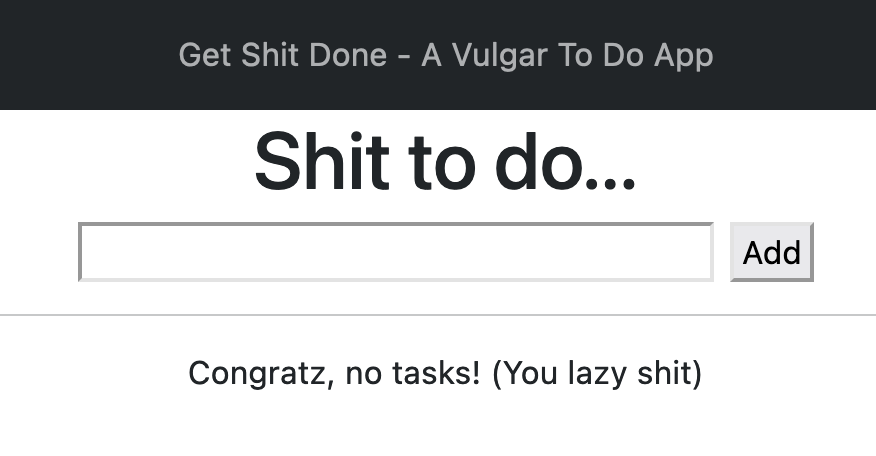
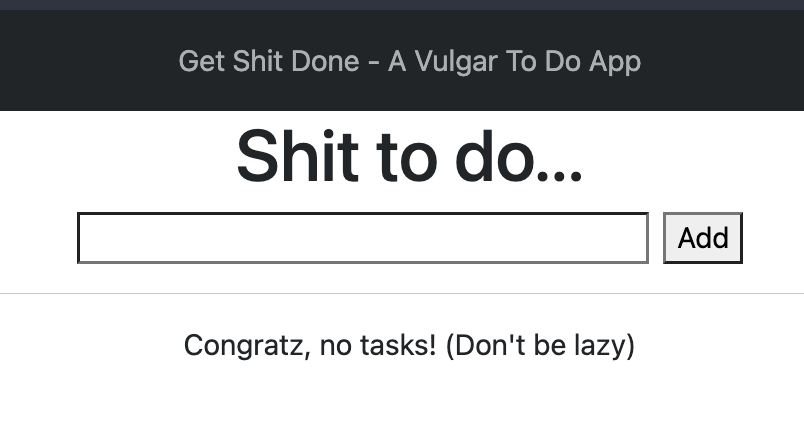
made slightly less vulgar

diff --git a/Django_Projects/todoproject/todoapp/templates/todoapp/index.html b/Django_Projects/todoproject/todoapp/templates/todoapp/index.html
@@ -34,7 +34,7 @@
                 </div>
             {% endfor %}
         {% else %}
-            <p>Congratz, no tasks! (You lazy shit)</p>
+            <p>Congratz, no tasks! (Don't be lazy)</p>
         {% endif %}
     </div>
 {% endblock content %}
